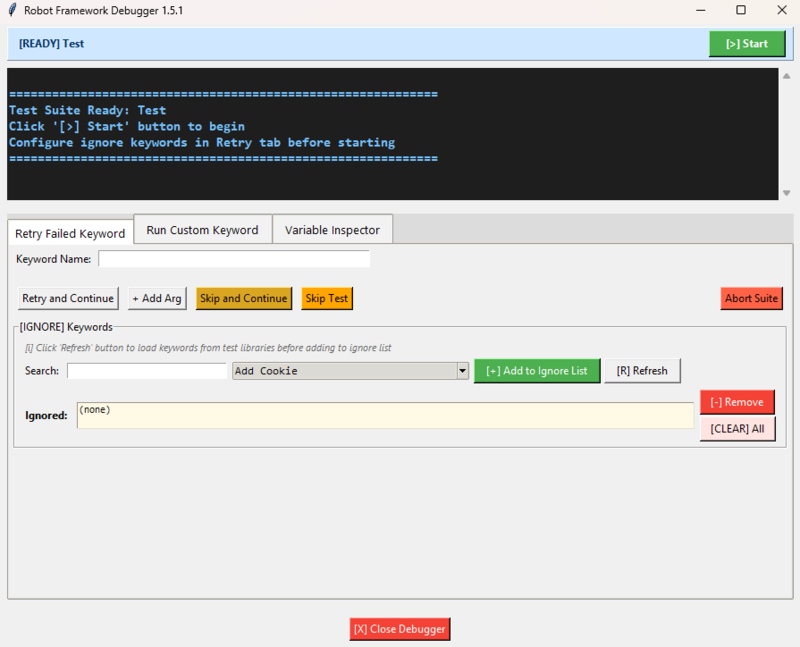
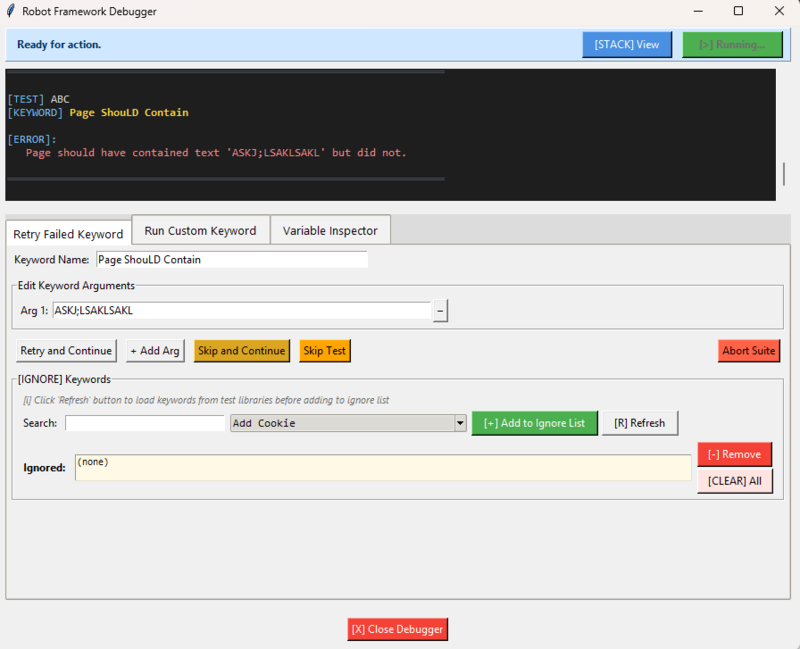
minimal ui changes

Changed region(s): [[0.0, 0.34, 1.0, 1.0], [0.0, 0.0, 1.0, 0.3091], [0.0, 0.0, 0.2188, 0.0309]]

diff --git a/gui.py b/gui.py
@@ -22,7 +22,7 @@ class SimpleRetryGUI:
     MAX_LOG_LINES = 1000
     MAX_FAILURE_LOG_LINES = 500
     VARIABLE_REFRESH_DELAY_MS = 1000  # Increased from 300ms for VDI performance
-    DEBUGGER_VERSION = "1.5.1"
+    # DEBUGGER_VERSION = "1.5.1"
     
     def __init__(self, core):
         self.core = core
@@ -34,7 +34,7 @@ class SimpleRetryGUI:
         self._var_refresh_id = None  # Track variable refresh timer
 
         self.root = tk.Tk()
-        self.root.title(f"Robot Framework Debugger {self.DEBUGGER_VERSION}")
+        self.root.title(f"Robot Framework Debugger")
         self.root.geometry("900x700")
         self.root.minsize(850, 600)
         self.root.protocol("WM_DELETE_WINDOW", self._on_window_close)

diff --git a/__init__.py b/__init__.py
@@ -14,12 +14,12 @@ Usage:
 
 Author: Suriya
 License: MIT
-Version: 2.0
+Version: 2.0.1
 """
 
 from .RobotRetrier import RobotFrameworkDebugger
 
-__version__ = "2.0"
+__version__ = "2.0.2"
 __author__ = "Suriya"
 __license__ = "MIT"
 

diff --git a/README.md b/README.md
@@ -6,7 +6,7 @@
 
 A powerful interactive debugger for Robot Framework with real-time test control, variable inspection, and keyword retry capabilities.
 
-![rfdb Demo](https://github.com/suri-53/rfdb/blob/main/Screenshots/rfdbUI.png)
+![rfdb Demo](https://raw.githubusercontent.com/suri-53/rfdb/main/Screenshots/rfdbUI.png)
 
 ## 🚀 Features
 
@@ -45,7 +45,7 @@ pip install rfdb
 
 ## 🎯 Quick Start
 
-### Method 1: As a Listener (Recommended)
+### 1: As a Listener
 
 Run your tests with rfdb as a listener:
 
@@ -59,27 +59,7 @@ Or with multiple listeners:
 robot --listener rfdb --listener OtherListener your_test.robot
 ```
 
-### Method 2: Import as Library
-
-Add to your test file:
-
-```robot
-*** Settings ***
-Library    rfdb
-
-*** Test Cases ***
-My Test Case
-    Log    This test will pause on failures
-    Should Be Equal    1    2    # Debugger will pause here
-```
-
-Then run:
-
-```bash
-robot your_test.robot
-```
-
-### 3. Debug Interactively
+### 2. Debug Interactively
 
 The debugger GUI opens automatically when a test fails:
 - Click **Continue** to proceed
@@ -267,7 +247,7 @@ MIT License - see LICENSE file for details
 
 - **PyPI**: https://pypi.org/project/rfdb/
 - **GitHub**: https://github.com/suri-53/rfdb
-- **Issues**: https://github.com/yourusername/rfdb/issues
+- **Issues**: https://github.com/suri-53/rfdb/issues
 - **Robot Framework**: https://robotframework.org/
 
 ## 📊 Version History
@@ -343,19 +323,14 @@ MIT License - see LICENSE file for details
 ## Usage
 
 ### Starting the Debugger
-```robot
-*** Settings ***
-Library    path/to/RobotFrameworkDebugger.py
 
-*** Test Cases ***
-My Test
-    Log    Test will pause at debugger
-```
+Run your tests with rfdb as a listener:
 
-Run your test:
 ```bash
-robot your_test.robot
+robot --listener rfdb your_test.robot
 ```
+
+The debugger GUI opens automatically when a test fails.
 
 ### Keyboard Shortcuts
 - **Ctrl+Q**: Emergency exit (force close debugger)
@@ -386,7 +361,7 @@ VARIABLE_REFRESH_DELAY_MS = 1000  # Variable refresh rate (ms)
 
 ### Debugger doesn't pause
 - Check that the library is imported in your test Settings
-- Verify Robot Framework version compatibility (v3+)
+- Verify Robot Framework version compatibility (v7.1.1+)
 
 ### Keywords not loading
 - Library loads lazily when first needed
@@ -425,5 +400,6 @@ VARIABLE_REFRESH_DELAY_MS = 1000  # Variable refresh rate (ms)
 For issues or questions:
 1. Check logs in failure log window
 2. Review call stack for execution context
+
 3. Verify library imports in test settings
 4. Check Robot Framework version compatibility
